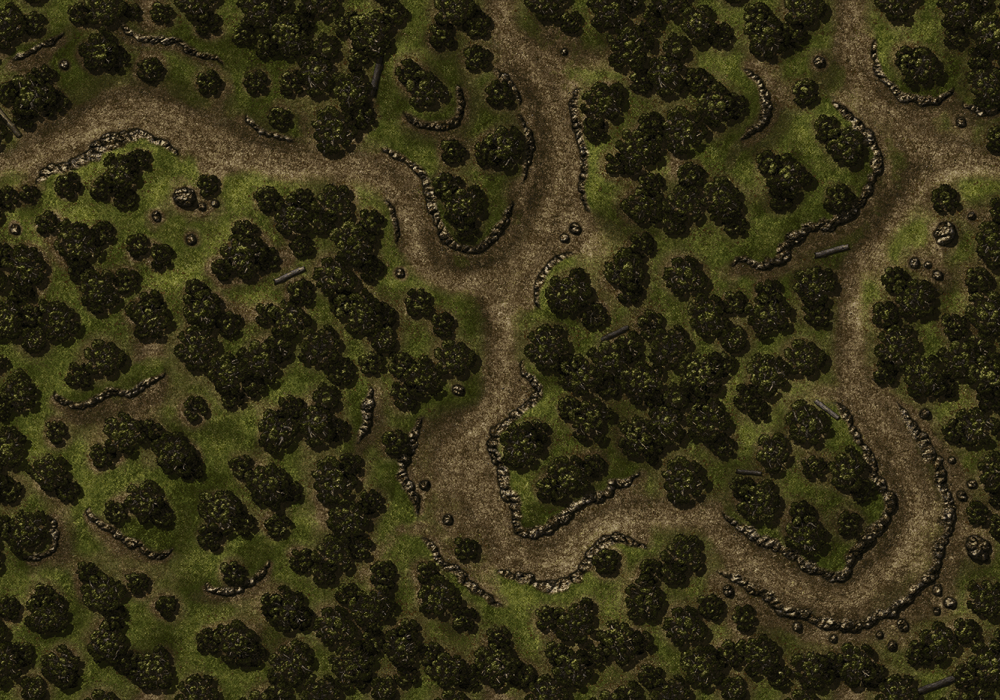
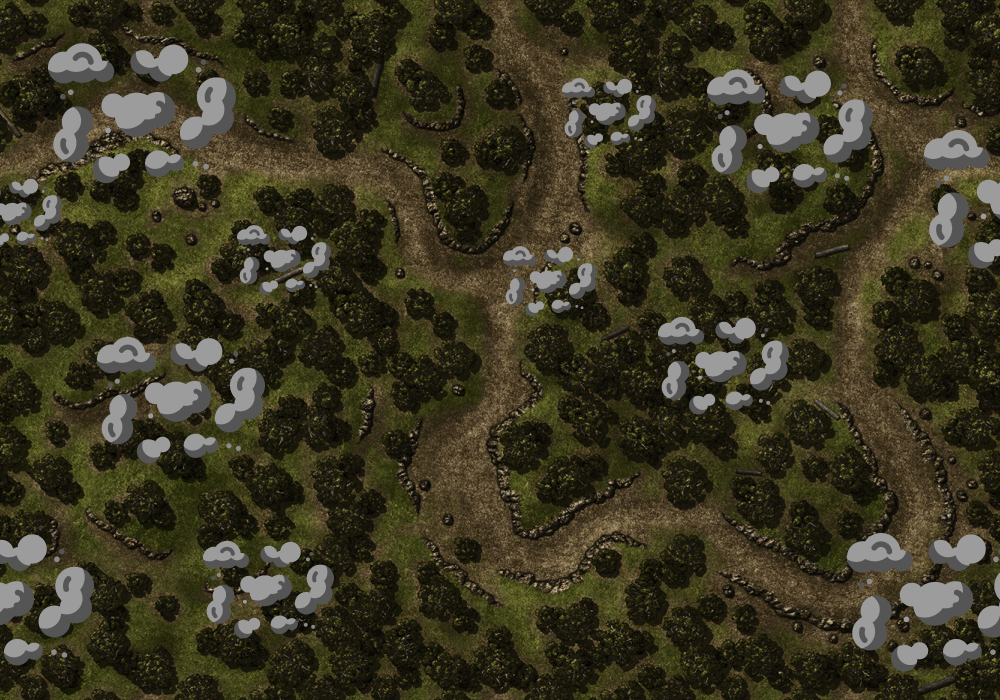
refactoring_second

diff --git a/lesson/main.py b/lesson/main.py
@@ -1,6 +1,7 @@
 import pyfiglet
 bunner = pyfiglet.figlet_format("sky forse", font="banner3-d")
 print(bunner)
+
 import arcade
 
 # Constants
@@ -16,7 +17,12 @@ PLAYER_MOVEMENT_SPEED = 5
 BULLET_SCALE = 1
 BULLET_SPEED = 10
 
-BACKGROUND_SCROLL_SPEED = 25
+CLOUD_SPAWN_INTERVAL = 60
+
+BACKGROUND_SCROLL_SPEED = 50
+
+
+
 
 class MyGame(arcade.Window):
     """
@@ -35,6 +41,7 @@ class MyGame(arcade.Window):
         self.player_list = None
         self.player_sprite = None
 
+
         self.moving_left = False
         self.moving_right = False
 
@@ -42,6 +49,7 @@ class MyGame(arcade.Window):
         self.player_sprite_right = arcade.load_texture("img_second/player_right.png")
 
         self.bullets_list = arcade.SpriteList()
+
 
     def setup(self):
         """Set up the game here. Call this function to restart the game."""
@@ -56,19 +64,6 @@ class MyGame(arcade.Window):
         self.player_sprite.center_y = 50
         self.player_list.append(self.player_sprite)
 
-        # Put some crates on the ground
-        # This shows using a coordinate list to place sprites
-        coordinate_list = [[512, 200], [256, 300], [768, 250]]
-
-        for coordinate in coordinate_list:
-            # Add a crate on the ground
-            wall = arcade.Sprite(
-                "img_second/cloud.png", TILE_SCALING
-            )
-            wall.position = coordinate
-            self.wall_list.append(wall)
-    
-
 
     def on_draw(self):
         """Render the screen."""
@@ -79,7 +74,6 @@ class MyGame(arcade.Window):
         arcade.draw_texture_rectangle(SCREEN_WIDTH // 2, SCREEN_HEIGHT // 2 + self.background_y2,
                                         SCREEN_WIDTH, SCREEN_HEIGHT, self.background)
         # Draw our sprites
-        self.wall_list.draw()
         self.player_list.draw()
 
         self.bullets_list.draw()
@@ -125,8 +119,9 @@ class MyGame(arcade.Window):
         if self.background_y2 < -SCREEN_HEIGHT:
             self.background_y2 = SCREEN_HEIGHT
 
+
     def fire_bullet(self):
-        bullet = arcade.Sprite("img/bullet.png", BULLET_SCALE)
+        bullet = arcade.Sprite("img_second/bullet.png", BULLET_SCALE)
         bullet.center_x = self.player_sprite.center_x
         bullet.center_y = self.player_sprite.center_y + self.player_sprite.height // 2
         bullet.change_y = BULLET_SPEED
